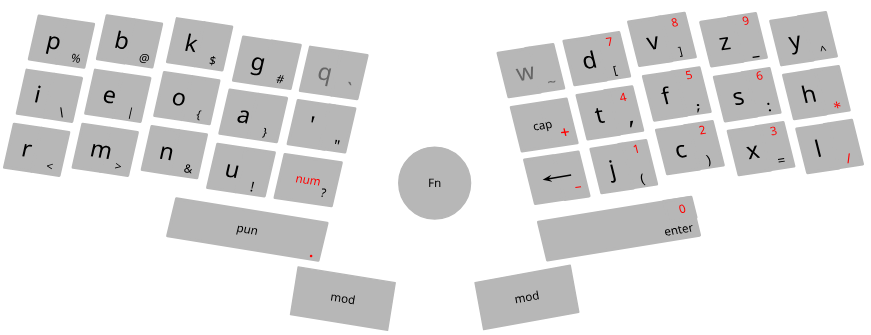
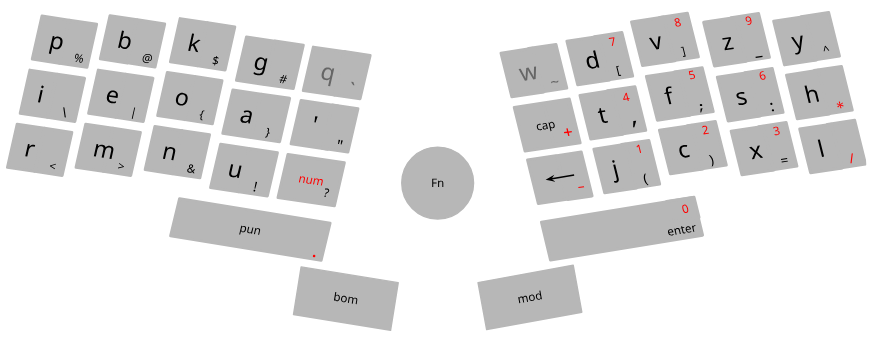
Add files via upload

diff --git a/index.html b/index.html
@@ -34,9 +34,9 @@ body {
 </span></div><div><span><img src="keyboard.png" alt="keyboard.png"/>
 </span></div><div><span>
 </span></div><div><span>navigation keys (arrows, page up, page down, home, end, tab, esc), and ctrl/shift/alt based keybindings,
-</span></div><div><span></span>	<span>are available by pressing and holding "mod" key
-</span></div><div><span>pressing left "mod" key while holding the right one, is equivalent to Alt+Tab
-</span></div><div><span>pressing right "mod" key while holding the left one, is equivalent to Alt+Esc
+</span></div><div><span></span>	<span>are available by pressing and holding "mod" (modifier) and/or "bom" (its mirror)
+</span></div><div><span>pressing "mod+bom", is equivalent to "alt+tab"
+</span></div><div><span>pressing "mod+bom", is equivalent to "alt+escape"
 </span></div><div><span>
 </span></div><div><span>to insert punctuations, press "pun"
 </span></div><div><span></span>	<span>after entering a punctuation charactor, it automatically returns to normal mode
@@ -60,6 +60,7 @@ body {
 </span></div><div><span><a href="https://github.com/nglgzz/42">https://github.com/nglgzz/42</a>
 </span></div><div><span><a href="https://github.com/adereth/dactyl-keyboard">https://github.com/adereth/dactyl-keyboard</a>
 </span></div><div><span>Kinesis Advantage 2 keyboard
+</span></div><div><span><a href="http://www.allthingsergo.com/the-best-ergonomic-mechanical-keyboards/">http://www.allthingsergo.com/the-best-ergonomic-mechanical-keyboards/</a>
 </span></div>
 <h2>2, Uni</h2><div><span>Uni is a unified collaborative development environment, and an ideal frontend for GNUnet,
 </span></div><div><span></span>	<span>with command'based user interface
@@ -129,20 +130,20 @@ body {
 </span></div><div><span>"the GNUnet system" by Christian Grothoff (<a href="https://grothoff.org/christian/habil.pdf">https://grothoff.org/christian/habil.pdf</a>)
 </span></div>
 <h2>3, Ushell</h2><div><span>Ushell provides a graphical shell consisting of a main panel and a status bar
-</span></div><div><span>the main panel can be opened by pressing "Alt+Tab" ("RightMod+LeftMod"), showing all available applications
-</span></div><div><span>to return back to previous application, press "Alt+Tab" again
-</span></div><div><span>to close main panel press "Escape"
+</span></div><div><span>the main panel can be opened by pressing "alt+tab" ("mod+bom"), showing all available applications
+</span></div><div><span>to return back to previous application, press "alt+tab" again
+</span></div><div><span>to close main panel press "escape" key
 </span></div><div><span>applications can be selected by typing their name, or using the arrow keys
 </span></div><div><span></span>	<span>space entered while typing application's name, will be considered the wild card character "*"
 </span></div><div><span>press "enter" to open the selected application in its own workspace
 </span></div><div><span>any extra windows opened by the application, will be shown in a modal floating window
-</span></div><div><span>to close a window, press "alt+escape" (LeftMod+RightMod)
+</span></div><div><span>to close a window, press "alt+escape" (bom+mod)
 </span></div><div><span>
-</span></div><div><span>right after opening the main panel, press "space" to open command prompt
+</span></div><div><span>in main panel, press any punctuation key (';,.) to open the command prompt
 </span></div><div><span>by typing special keywords in command prompt, you have instant access to various small but useful things like:
 </span></div><div><span></span>	<span>calculator, unit conversion, timer, date at different timezones, weather, dictionary, encyclopedia, etc
 </span></div><div><span>
-</span></div><div><span>right after opening the main panel, press "enter" to open the system menu:
+</span></div><div><span>right after opening the main panel, "system" is selected by default, and can be opened by pressing "enter":
 </span></div><div><span>, session (lock, suspend, exit, reboot, poweroff)
 </span></div><div><span>, displays
 </span></div><div><span>, connections
